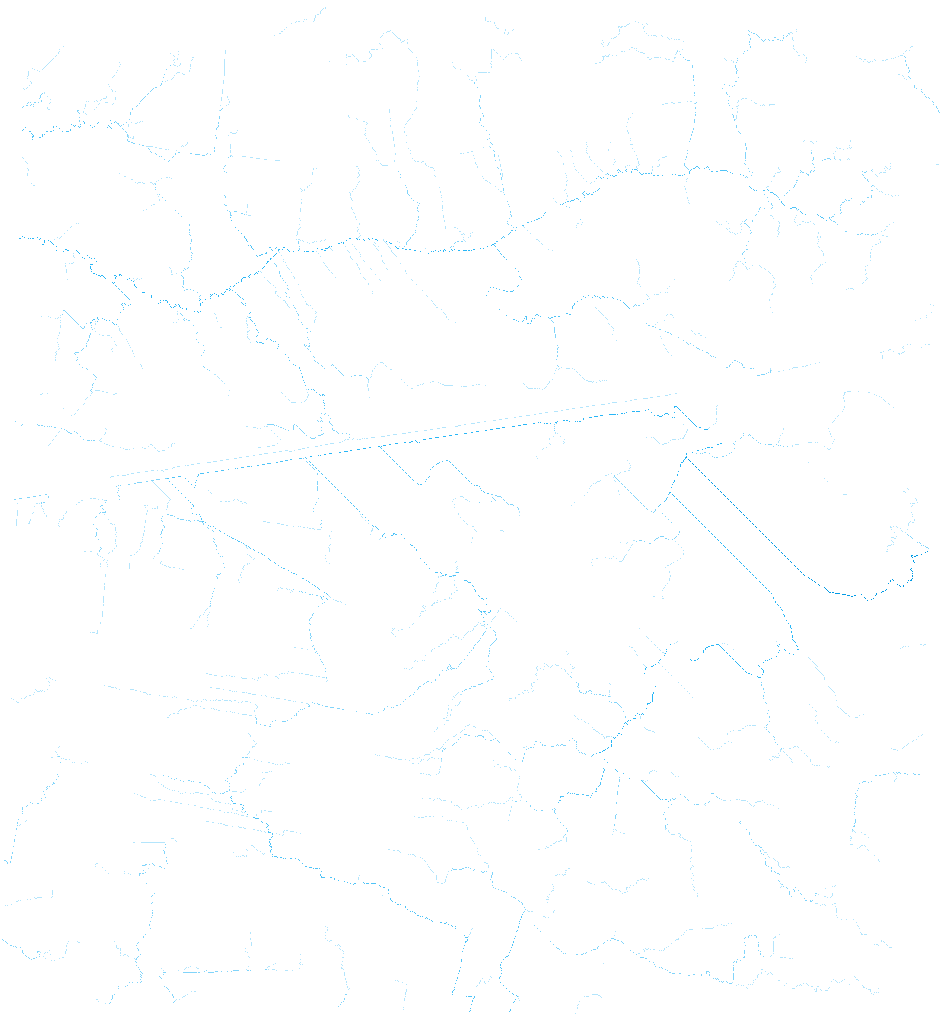
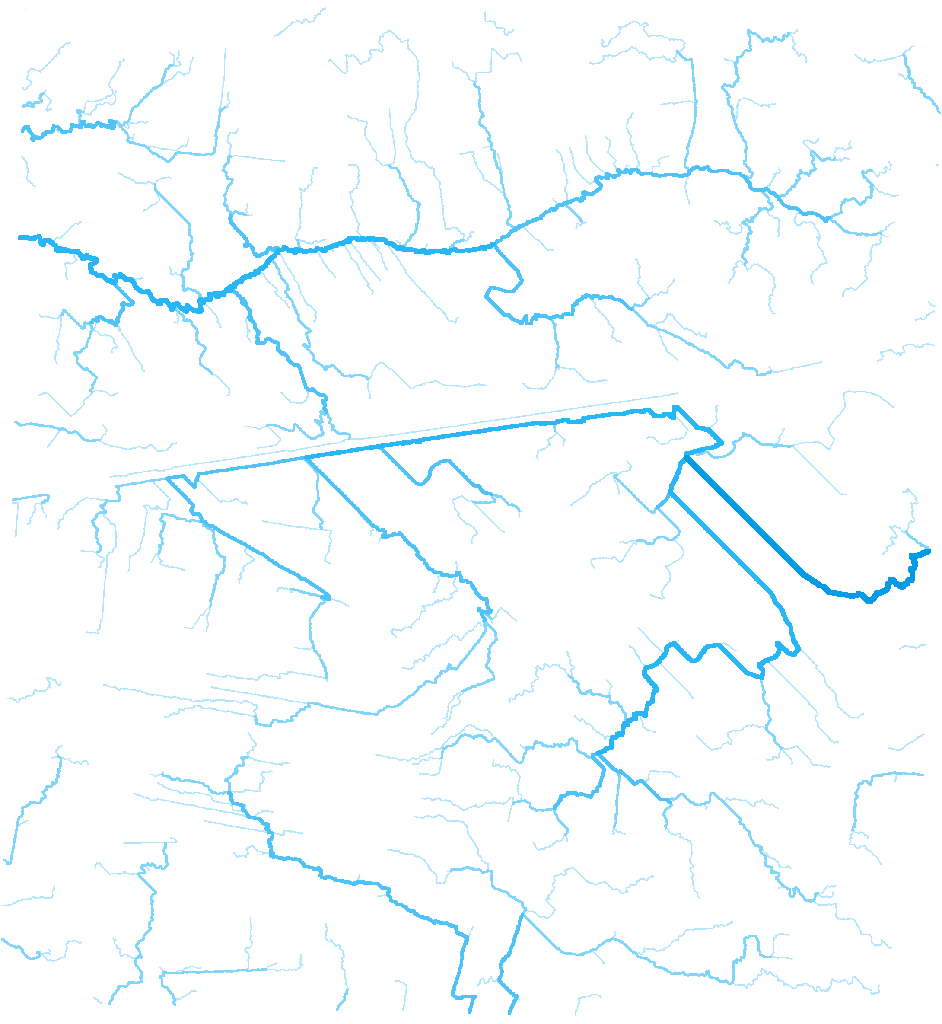
fix(frontend): dilate stream lines for visibility after downsampling
Stream pixels were 1px-wide in source raster (0.99% coverage). After
NEAREST downsampling 2180→942 most lines disappeared. Apply morphological
dilation (kernel 3-11px proportional to Strahler order) before coloring,
increasing visible coverage from 1% to 6%.

diff --git a/backend/scripts/generate_streams_overlay.py b/backend/scripts/generate_streams_overlay.py
@@ -21,6 +21,7 @@ import numpy as np
 import rasterio
 from PIL import Image
 from pyproj import Transformer
+from scipy.ndimage import maximum_filter
 
 # Discrete color palette for Strahler orders 1–8 (blue gradient)
 STRAHLER_COLORS = {
@@ -51,10 +52,27 @@ def generate_overlay(
     print(f"Stream order: {width}x{height}, max order={max_order}, "
           f"stream pixels={stream_pixels}")
 
+    # Dilate streams to make them visible after downsampling.
+    # Line width grows with Strahler order (order 1 → 3px, order 5 → 7px).
+    # Process low→high so higher orders paint over lower ones.
+    dilated = np.zeros_like(data)
+    for order in range(1, max_order + 1):
+        mask = data == order
+        if not np.any(mask):
+            continue
+        kernel_size = 2 * order + 1  # 3, 5, 7, 9, 11, 13, 15, 17
+        order_arr = np.where(mask, order, 0).astype(data.dtype)
+        expanded = maximum_filter(order_arr, size=kernel_size)
+        dilated = np.where(expanded > 0, expanded, dilated)
+
+    dilated_pixels = int(np.count_nonzero(dilated))
+    print(f"After dilation: {dilated_pixels} visible pixels "
+          f"({100 * dilated_pixels / (width * height):.1f}%)")
+
     # Build RGBA image
     rgba = np.zeros((height, width, 4), dtype=np.uint8)
     for order, (r, g, b) in STRAHLER_COLORS.items():
-        mask = data == order
+        mask = dilated == order
         rgba[mask, 0] = r
         rgba[mask, 1] = g
         rgba[mask, 2] = b
